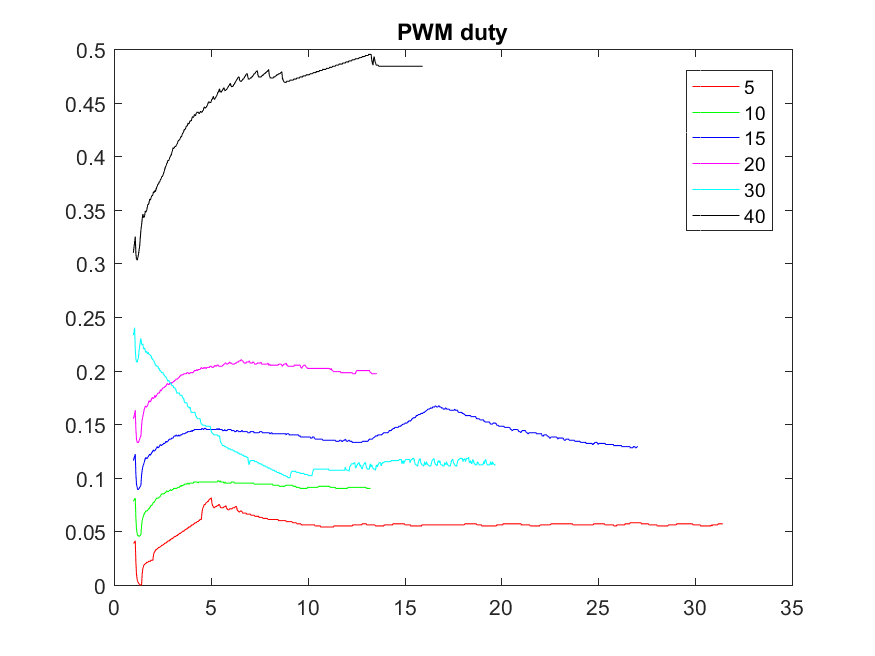
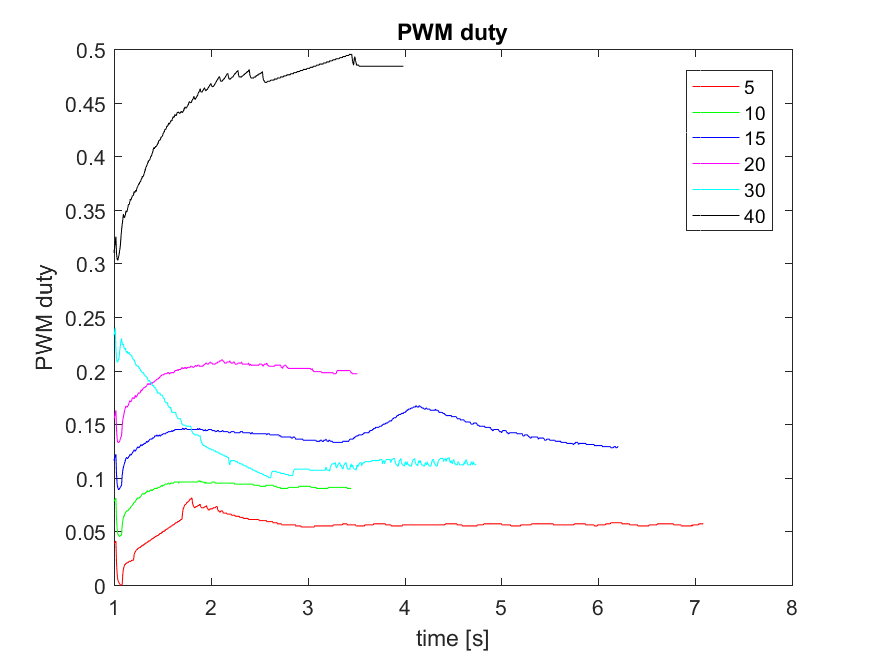
figures with axis titles, advanced report

diff --git a/data_processing.m b/data_processing.m
@@ -12,7 +12,7 @@ spd20 = raw(2:end,8);
 spd30 = raw(2:end,10);
 spd40 = raw(2:end,12);
 
-Ts = 1/(15.4*2);
+Ts = 1/(15.4*10);
 time = 1:Ts:100;
 
 %% extract pwm and velocity data
@@ -103,6 +103,8 @@ plot(time(1:length(pwm30)), pwm30,'c');
 plot(time(1:length(pwm40)), pwm40,'k');
 title('PWM duty');
 legend('5','10','15','20','30','40');
+ylabel('PWM duty');
+xlabel('time [s]');
 saveas(gcf,'PWM_pos.png');
 
 figure
@@ -123,6 +125,8 @@ hline(40,'k:');
 title('velocity')
 legend('5','10','15','20','30','40');
 ylim([0,45]);
+ylabel('speed [rps]');
+xlabel('time [s]');
 saveas(gcf,'velocity_pos.png');
 
 
@@ -256,6 +260,8 @@ plot(time(1:length(pwm40)), pwm40);
 
 title('PWM duty');
 legend('5','10','15','20','30','40','50','60');
+ylabel('PWM duty');
+xlabel('time [s]');
 saveas(gcf,'PWM_neg.png');
 
 figure
@@ -281,4 +287,6 @@ hline(60,':');
 title('velocity')
 legend('5','10','15','20','30','40','50','60');
 ylim([0,75]);
+ylabel('speed [rps]');
+xlabel('time [s]');
 saveas(gcf,'velocity_neg.png');
